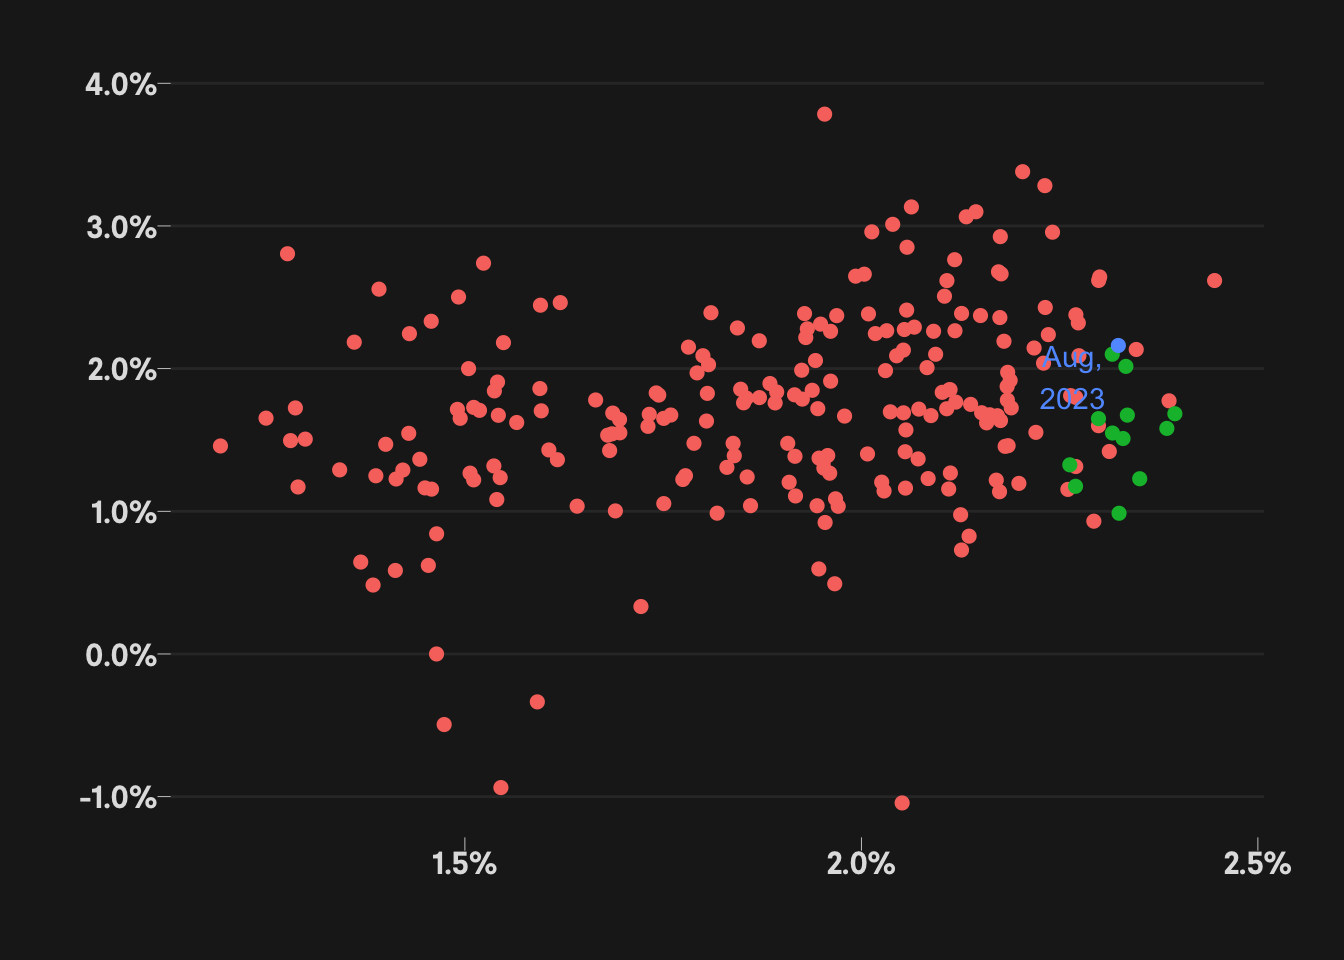
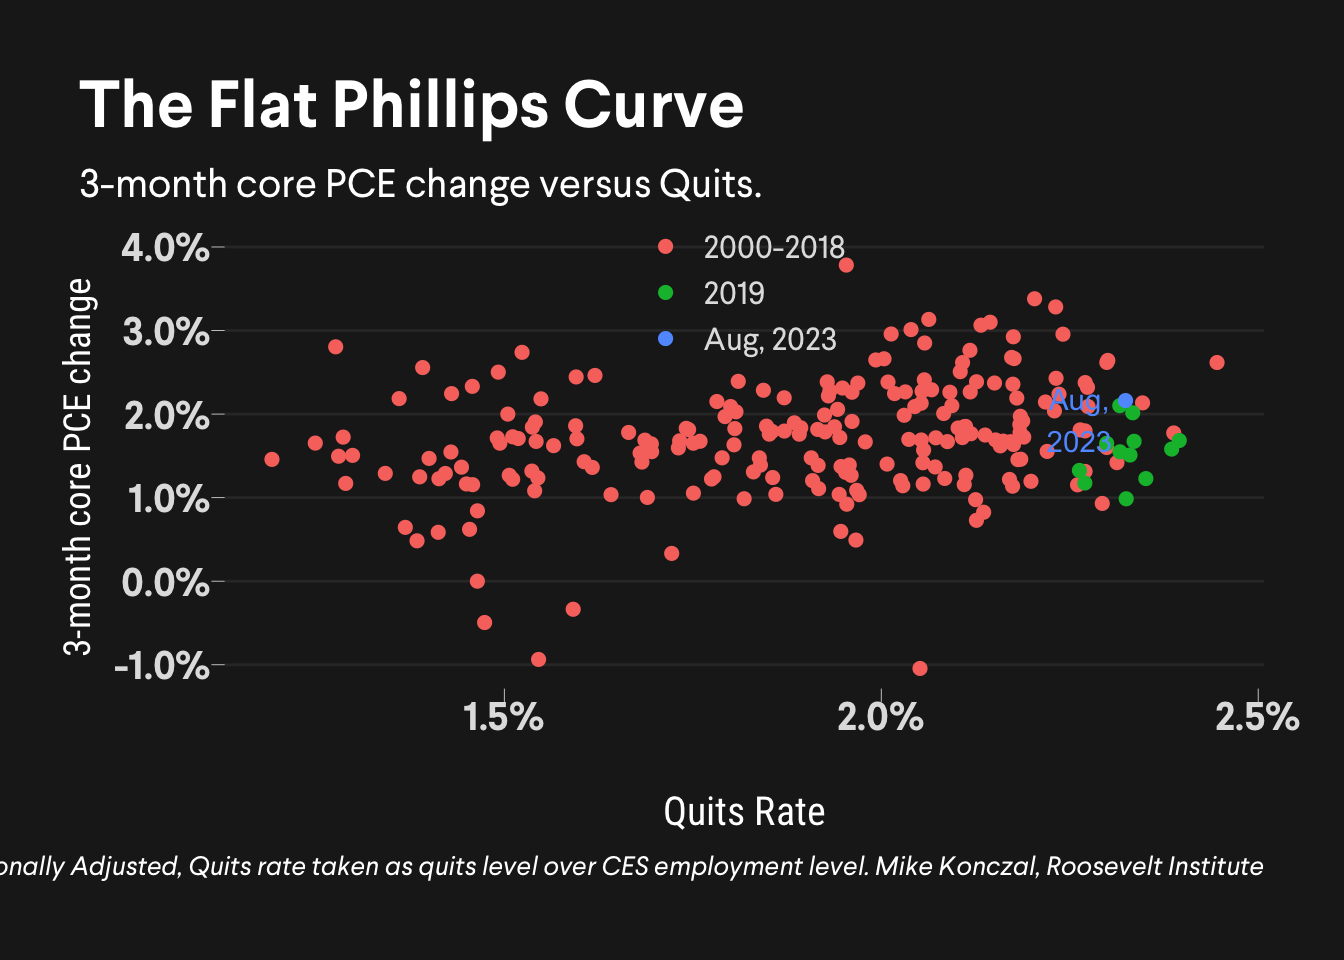
Updated with newer graphics.

diff --git a/blog_posts/last_mile_of_inflation/last_mile_of_inflation.html b/blog_posts/last_mile_of_inflation/last_mile_of_inflation.html
@@ -362,8 +362,8 @@ code span.wa { color: #60a0b0; font-weight: bold; font-style: italic; } /* Warni
 <span id="cb11-15"><a href="#cb11-15" aria-hidden="true" tabindex="-1"></a>index_dates <span class="ot">&lt;-</span> <span class="fu">seq</span>(<span class="fu">max</span>(index<span class="sc">$</span>date), <span class="at">length.out =</span> <span class="dv">20</span>, <span class="at">by =</span> <span class="fu">paste0</span>(<span class="st">"-"</span>, <span class="dv">24</span>, <span class="st">" months"</span>))</span>
 <span id="cb11-16"><a href="#cb11-16" aria-hidden="true" tabindex="-1"></a>index <span class="sc">%&gt;%</span></span>
 <span id="cb11-17"><a href="#cb11-17" aria-hidden="true" tabindex="-1"></a>  <span class="fu">ggplot</span>(<span class="fu">aes</span>(date, changeWA)) <span class="sc">+</span></span>
-<span id="cb11-18"><a href="#cb11-18" aria-hidden="true" tabindex="-1"></a>  <span class="fu">geom_line</span>(<span class="at">size =</span> <span class="dv">2</span>) <span class="sc">+</span></span>
-<span id="cb11-19"><a href="#cb11-19" aria-hidden="true" tabindex="-1"></a>  <span class="fu">theme_classic</span>() <span class="sc">+</span></span>
+<span id="cb11-18"><a href="#cb11-18" aria-hidden="true" tabindex="-1"></a>  <span class="fu">geom_line</span>(<span class="at">linewidth =</span> <span class="dv">2</span>) <span class="sc">+</span></span>
+<span id="cb11-19"><a href="#cb11-19" aria-hidden="true" tabindex="-1"></a>  theme_lass <span class="sc">+</span></span>
 <span id="cb11-20"><a href="#cb11-20" aria-hidden="true" tabindex="-1"></a>  <span class="fu">labs</span>(</span>
 <span id="cb11-21"><a href="#cb11-21" aria-hidden="true" tabindex="-1"></a>    <span class="at">x =</span> <span class="st">""</span>, <span class="at">y =</span> <span class="st">""</span>,</span>
 <span id="cb11-22"><a href="#cb11-22" aria-hidden="true" tabindex="-1"></a>    <span class="at">title =</span> <span class="st">"Demand Sensitive Items Disinflating Over Past Year"</span>,</span>
@@ -373,7 +373,7 @@ code span.wa { color: #60a0b0; font-weight: bold; font-style: italic; } /* Warni
 <span id="cb11-26"><a href="#cb11-26" aria-hidden="true" tabindex="-1"></a>  <span class="fu">theme</span>(<span class="at">panel.grid.major.y =</span> <span class="fu">element_line</span>(<span class="at">size =</span> <span class="fl">0.5</span>)) <span class="sc">+</span></span>
 <span id="cb11-27"><a href="#cb11-27" aria-hidden="true" tabindex="-1"></a>  <span class="fu">theme</span>(<span class="at">plot.title.position =</span> <span class="st">"plot"</span>) <span class="sc">+</span></span>
 <span id="cb11-28"><a href="#cb11-28" aria-hidden="true" tabindex="-1"></a>  <span class="fu">scale_y_continuous</span>(<span class="at">labels =</span> percent) <span class="sc">+</span></span>
-<span id="cb11-29"><a href="#cb11-29" aria-hidden="true" tabindex="-1"></a>  <span class="fu">scale_x_date</span>(<span class="at">date_labels =</span> <span class="st">"%b</span><span class="sc">\n</span><span class="st">%Y"</span>, <span class="at">labels =</span> index_dates) <span class="sc">+</span></span>
+<span id="cb11-29"><a href="#cb11-29" aria-hidden="true" tabindex="-1"></a>  <span class="fu">scale_x_date</span>(<span class="at">date_labels =</span> <span class="st">"%b</span><span class="sc">\n</span><span class="st">%Y"</span>, <span class="at">breaks =</span> index_dates) <span class="sc">+</span></span>
 <span id="cb11-30"><a href="#cb11-30" aria-hidden="true" tabindex="-1"></a>  <span class="fu">scale_color_manual</span>(<span class="at">values =</span> <span class="fu">c</span>(<span class="st">"#2D779C"</span>, <span class="st">"#A4CCCC"</span>)) <span class="sc">+</span></span>
 <span id="cb11-31"><a href="#cb11-31" aria-hidden="true" tabindex="-1"></a>  <span class="fu">theme</span>(<span class="at">legend.position =</span> <span class="fu">c</span>(<span class="fl">0.35</span>, <span class="fl">0.9</span>))</span></code><button title="Copy to Clipboard" class="code-copy-button"><i class="bi"></i></button></pre></div>
 <div class="cell-output-display">
@@ -877,29 +877,26 @@ F-statistic: 195.8 on 2 and 270 DF,  p-value: &lt; 2.2e-16</code></pre>
 <span id="cb23-12"><a href="#cb23-12" aria-hidden="true" tabindex="-1"></a>  <span class="fu">geom_point</span>(<span class="at">size=</span><span class="dv">2</span>) <span class="sc">+</span></span>
 <span id="cb23-13"><a href="#cb23-13" aria-hidden="true" tabindex="-1"></a>  <span class="fu">scale_y_continuous</span>(<span class="at">labels =</span> percent) <span class="sc">+</span></span>
 <span id="cb23-14"><a href="#cb23-14" aria-hidden="true" tabindex="-1"></a>  <span class="fu">scale_x_continuous</span>(<span class="at">labels =</span> percent) <span class="sc">+</span></span>
-<span id="cb23-15"><a href="#cb23-15" aria-hidden="true" tabindex="-1"></a>  <span class="fu">geom_text_repel</span>()</span></code><button title="Copy to Clipboard" class="code-copy-button"><i class="bi"></i></button></pre></div>
+<span id="cb23-15"><a href="#cb23-15" aria-hidden="true" tabindex="-1"></a>  <span class="fu">geom_text_repel</span>(<span class="at">show.legend =</span> <span class="cn">FALSE</span>) <span class="sc">+</span></span>
+<span id="cb23-16"><a href="#cb23-16" aria-hidden="true" tabindex="-1"></a>  <span class="fu">labs</span>(</span>
+<span id="cb23-17"><a href="#cb23-17" aria-hidden="true" tabindex="-1"></a>    <span class="at">title =</span> <span class="st">"The Flat Phillips Curve"</span>,</span>
+<span id="cb23-18"><a href="#cb23-18" aria-hidden="true" tabindex="-1"></a>    <span class="at">subtitle =</span> <span class="st">"3-month core PCE change versus Quits."</span>,</span>
+<span id="cb23-19"><a href="#cb23-19" aria-hidden="true" tabindex="-1"></a>    <span class="at">x =</span> <span class="st">"Quits Rate"</span>, <span class="at">y =</span> <span class="st">"3-month core PCE change"</span>,</span>
+<span id="cb23-20"><a href="#cb23-20" aria-hidden="true" tabindex="-1"></a>    <span class="at">caption =</span> <span class="st">"BLS, Seasonally Adjusted, Quits rate taken as quits level over CES employment level. Mike Konczal, Roosevelt Institute"</span></span>
+<span id="cb23-21"><a href="#cb23-21" aria-hidden="true" tabindex="-1"></a>  ) <span class="sc">+</span></span>
+<span id="cb23-22"><a href="#cb23-22" aria-hidden="true" tabindex="-1"></a>  <span class="fu">theme</span>(</span>
+<span id="cb23-23"><a href="#cb23-23" aria-hidden="true" tabindex="-1"></a>    <span class="at">axis.text.x =</span> <span class="fu">element_text</span>(<span class="at">size =</span> <span class="dv">15</span>, <span class="at">face =</span> <span class="st">"bold"</span>),</span>
+<span id="cb23-24"><a href="#cb23-24" aria-hidden="true" tabindex="-1"></a>    <span class="at">axis.text.y =</span> <span class="fu">element_text</span>(<span class="at">size =</span> <span class="dv">15</span>, <span class="at">face =</span> <span class="st">"bold"</span>),</span>
+<span id="cb23-25"><a href="#cb23-25" aria-hidden="true" tabindex="-1"></a>    <span class="at">axis.title.x =</span> <span class="fu">element_text</span>(<span class="at">size =</span> <span class="dv">15</span>, <span class="at">margin =</span> <span class="fu">margin</span>(<span class="at">t =</span> <span class="dv">20</span>, <span class="at">r =</span> <span class="dv">0</span>, <span class="at">b =</span> <span class="dv">0</span>, <span class="at">l =</span> <span class="dv">0</span>)),</span>
+<span id="cb23-26"><a href="#cb23-26" aria-hidden="true" tabindex="-1"></a>    <span class="at">axis.title.y =</span> <span class="fu">element_text</span>(<span class="at">size =</span> <span class="dv">14</span>, <span class="at">angle =</span> <span class="dv">90</span>, <span class="at">color =</span> <span class="st">"white"</span>, <span class="at">vjust =</span> <span class="dv">3</span>)</span>
+<span id="cb23-27"><a href="#cb23-27" aria-hidden="true" tabindex="-1"></a>  ) <span class="sc">+</span></span>
+<span id="cb23-28"><a href="#cb23-28" aria-hidden="true" tabindex="-1"></a>  <span class="fu">theme</span>(<span class="at">panel.grid.minor =</span> <span class="fu">element_blank</span>()) <span class="sc">+</span></span>
+<span id="cb23-29"><a href="#cb23-29" aria-hidden="true" tabindex="-1"></a>  <span class="fu">theme</span>(<span class="at">panel.grid.major =</span> <span class="fu">element_blank</span>()) <span class="sc">+</span></span>
+<span id="cb23-30"><a href="#cb23-30" aria-hidden="true" tabindex="-1"></a>  <span class="fu">theme</span>(<span class="at">legend.position =</span> <span class="fu">c</span>(<span class="fl">0.5</span>, <span class="fl">0.91</span>))</span></code><button title="Copy to Clipboard" class="code-copy-button"><i class="bi"></i></button></pre></div>
 <div class="cell-output-display">
 <p><img src="last_mile_of_inflation_files/figure-html/draw_images_quits-2.png" class="img-fluid" width="672"></p>
 </div>
-<div class="sourceCode cell-code" id="cb24"><pre class="sourceCode r code-with-copy"><code class="sourceCode r"><span id="cb24-1"><a href="#cb24-1" aria-hidden="true" tabindex="-1"></a>  <span class="fu">labs</span>(</span>
-<span id="cb24-2"><a href="#cb24-2" aria-hidden="true" tabindex="-1"></a>    <span class="at">title =</span> <span class="st">"Back to where we started? 2000 to 2019 values and most recent value"</span>,</span>
-<span id="cb24-3"><a href="#cb24-3" aria-hidden="true" tabindex="-1"></a>    <span class="at">subtitle =</span> <span class="st">"3-month core PCE change versus Quits, 2000 - Current, Regression line is quits + quits^2."</span>,</span>
-<span id="cb24-4"><a href="#cb24-4" aria-hidden="true" tabindex="-1"></a>    <span class="at">x =</span> <span class="st">"Quits Rate"</span>, <span class="at">y =</span> <span class="st">"3-month core PCE change"</span>,</span>
-<span id="cb24-5"><a href="#cb24-5" aria-hidden="true" tabindex="-1"></a>    <span class="at">caption =</span> <span class="st">"BLS, Seasonally Adjusted, Quits rate taken as quits level over CES employment level. Mike Konczal, Roosevelt Institute"</span></span>
-<span id="cb24-6"><a href="#cb24-6" aria-hidden="true" tabindex="-1"></a>  ) <span class="sc">+</span></span>
-<span id="cb24-7"><a href="#cb24-7" aria-hidden="true" tabindex="-1"></a>  <span class="fu">theme</span>(</span>
-<span id="cb24-8"><a href="#cb24-8" aria-hidden="true" tabindex="-1"></a>    <span class="at">axis.text.x =</span> <span class="fu">element_text</span>(<span class="at">size =</span> <span class="dv">15</span>, <span class="at">face =</span> <span class="st">"bold"</span>),</span>
-<span id="cb24-9"><a href="#cb24-9" aria-hidden="true" tabindex="-1"></a>    <span class="at">axis.text.y =</span> <span class="fu">element_text</span>(<span class="at">size =</span> <span class="dv">15</span>, <span class="at">face =</span> <span class="st">"bold"</span>),</span>
-<span id="cb24-10"><a href="#cb24-10" aria-hidden="true" tabindex="-1"></a>    <span class="at">axis.title.x =</span> <span class="fu">element_text</span>(<span class="at">size =</span> <span class="dv">15</span>, <span class="at">margin =</span> <span class="fu">margin</span>(<span class="at">t =</span> <span class="dv">20</span>, <span class="at">r =</span> <span class="dv">0</span>, <span class="at">b =</span> <span class="dv">0</span>, <span class="at">l =</span> <span class="dv">0</span>)),</span>
-<span id="cb24-11"><a href="#cb24-11" aria-hidden="true" tabindex="-1"></a>    <span class="at">axis.title.y =</span> <span class="fu">element_text</span>(<span class="at">size =</span> <span class="dv">14</span>, <span class="at">angle =</span> <span class="dv">90</span>, <span class="at">color =</span> <span class="st">"white"</span>, <span class="at">vjust =</span> <span class="dv">3</span>)</span>
-<span id="cb24-12"><a href="#cb24-12" aria-hidden="true" tabindex="-1"></a>  ) <span class="sc">+</span></span>
-<span id="cb24-13"><a href="#cb24-13" aria-hidden="true" tabindex="-1"></a>  <span class="fu">theme</span>(<span class="at">panel.grid.minor =</span> <span class="fu">element_blank</span>()) <span class="sc">+</span></span>
-<span id="cb24-14"><a href="#cb24-14" aria-hidden="true" tabindex="-1"></a>  <span class="fu">theme</span>(<span class="at">panel.grid.major =</span> <span class="fu">element_blank</span>()) <span class="sc">+</span></span>
-<span id="cb24-15"><a href="#cb24-15" aria-hidden="true" tabindex="-1"></a>  <span class="fu">theme</span>(<span class="at">legend.position =</span> <span class="fu">c</span>(<span class="fl">0.5</span>, <span class="fl">0.91</span>))</span></code><button title="Copy to Clipboard" class="code-copy-button"><i class="bi"></i></button></pre></div>
-<div class="cell-output cell-output-stdout">
-<pre><code>NULL</code></pre>
-</div>
-<div class="sourceCode cell-code" id="cb26"><pre class="sourceCode r code-with-copy"><code class="sourceCode r"><span id="cb26-1"><a href="#cb26-1" aria-hidden="true" tabindex="-1"></a><span class="fu">ggsave</span>(<span class="st">"graphics/jolts_PC_pre_quits.png"</span>, <span class="at">width =</span> <span class="dv">12</span>, <span class="at">height =</span> <span class="dv">8</span>, <span class="at">dpi =</span> <span class="st">"retina"</span>)</span></code><button title="Copy to Clipboard" class="code-copy-button"><i class="bi"></i></button></pre></div>
+<div class="sourceCode cell-code" id="cb24"><pre class="sourceCode r code-with-copy"><code class="sourceCode r"><span id="cb24-1"><a href="#cb24-1" aria-hidden="true" tabindex="-1"></a><span class="fu">ggsave</span>(<span class="st">"graphics/jolts_PC_pre_quits.png"</span>, <span class="at">width =</span> <span class="dv">12</span>, <span class="at">height =</span> <span class="dv">8</span>, <span class="at">dpi =</span> <span class="st">"retina"</span>)</span></code><button title="Copy to Clipboard" class="code-copy-button"><i class="bi"></i></button></pre></div>
 </div>
 </section>
 </section>
